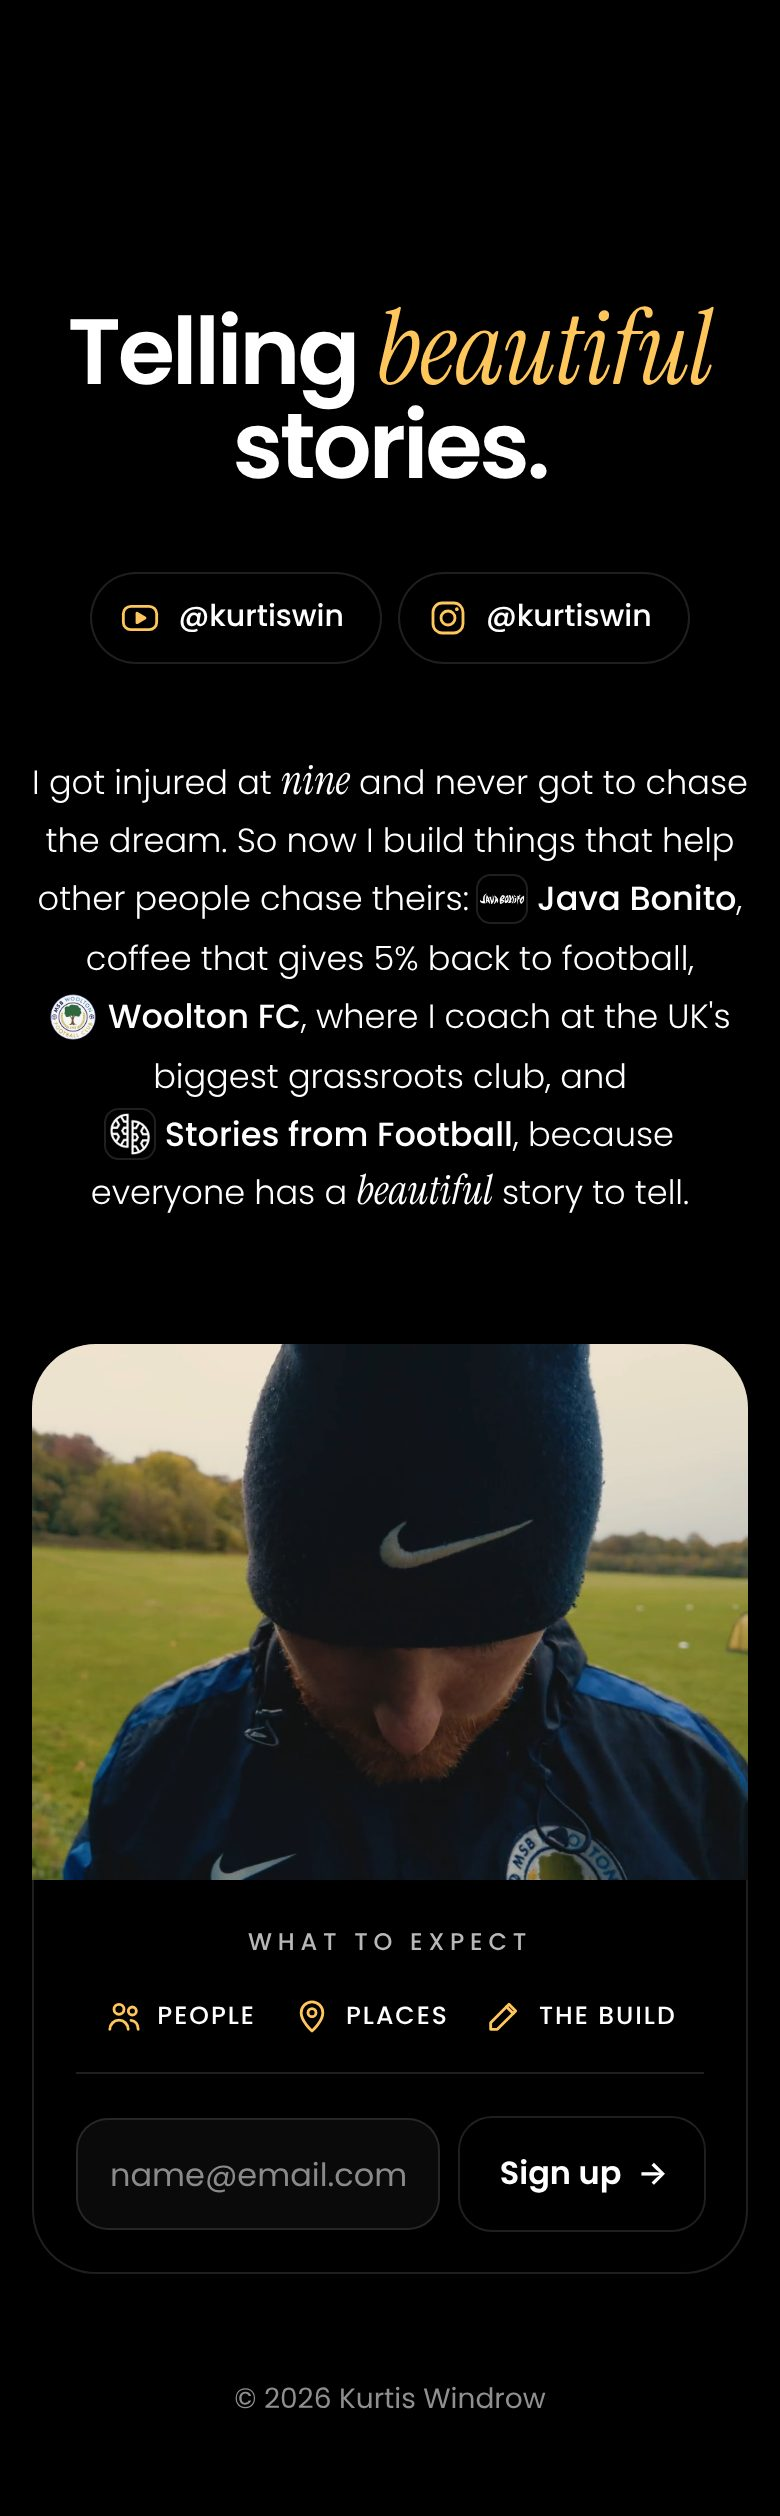
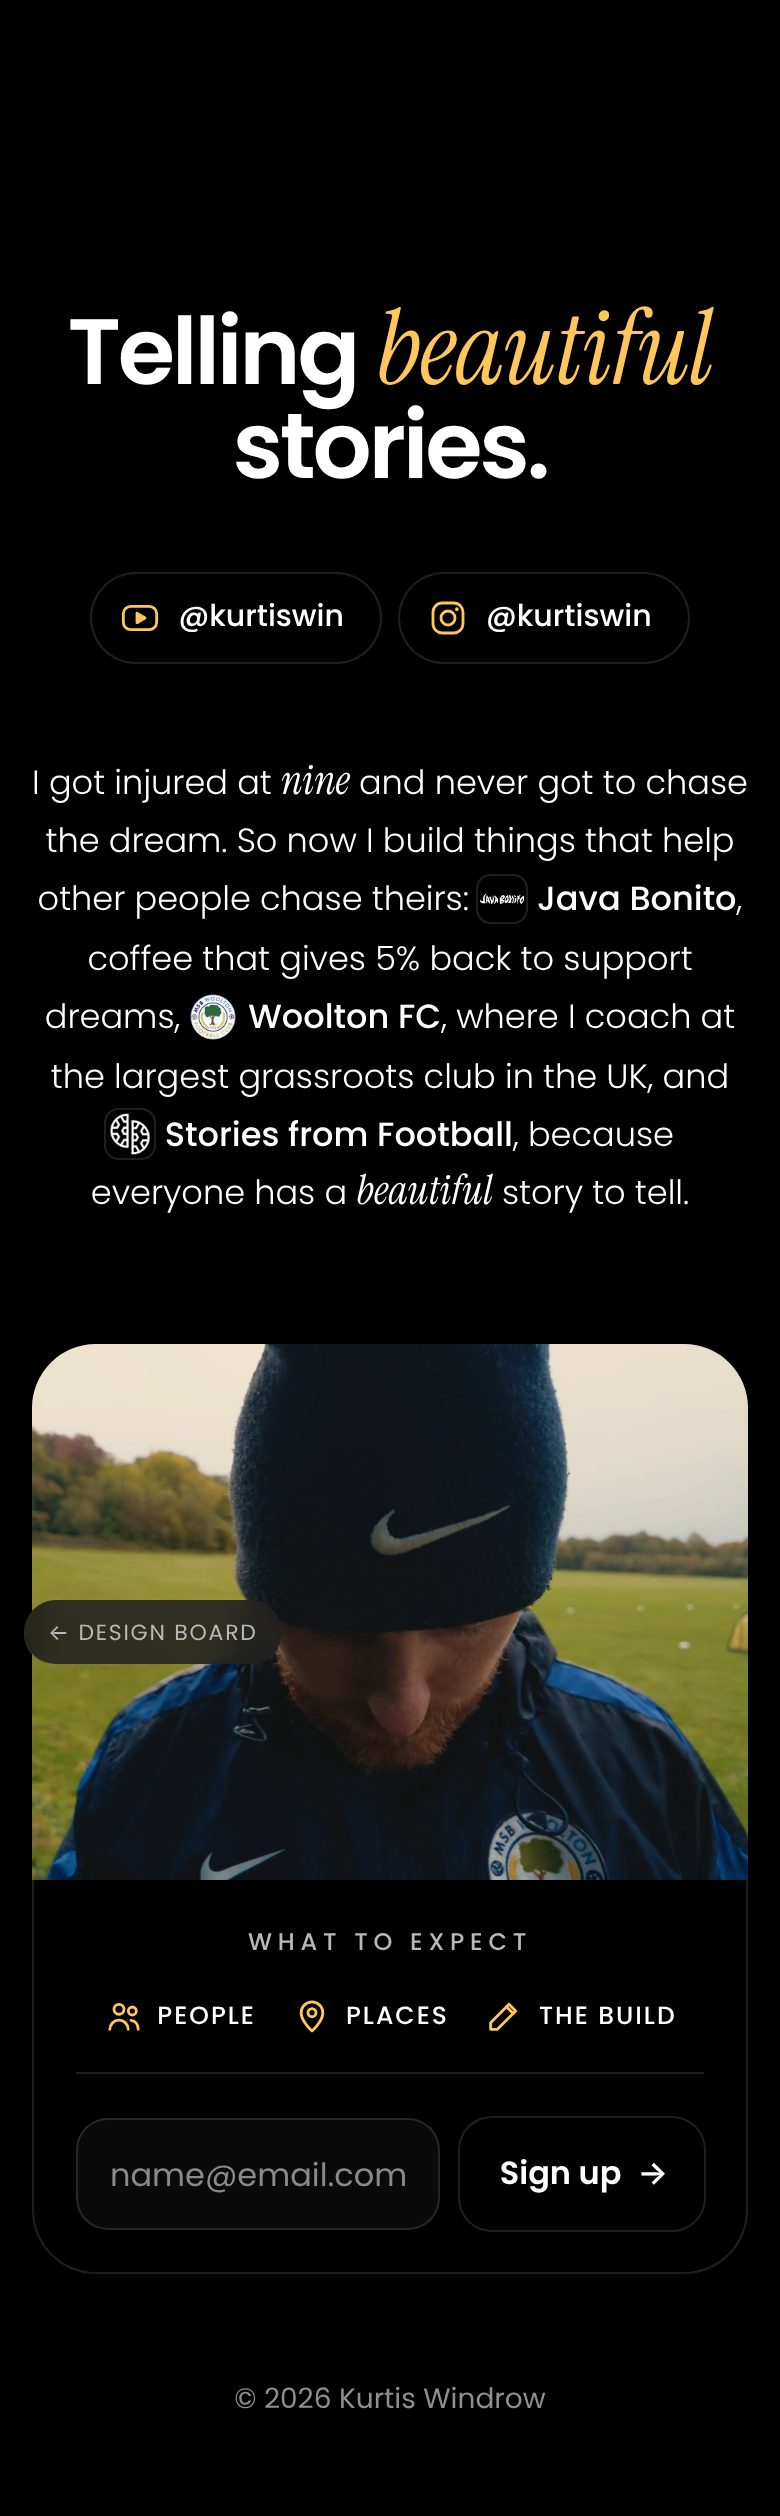
Update story copy for Java Bonito and Woolton FC
Claude-Session: https://claude.ai/code/session_01YWeD3rSu7rVPaxhd9cXvfE

Changed region(s): [[0.4615, 0.527, 0.9846, 0.775], [0.0615, 0.372, 0.9538, 0.434], [0.0308, 0.527, 0.4, 0.744]]

diff --git a/skills/kurtis-design-skill-personal-brand/assets/reference/site.html b/skills/kurtis-design-skill-personal-brand/assets/reference/site.html
@@ -98,7 +98,7 @@ footer a{text-decoration:none}
       <svg class="ico" viewBox="0 0 24 24" fill="none" stroke="currentColor" stroke-width="1.7" aria-hidden="true"><rect x="3" y="3" width="18" height="18" rx="5.5"/><circle cx="12" cy="12" r="4.2"/><circle cx="17.3" cy="6.7" r="1.1" fill="currentColor" stroke="none"/></svg>@kurtiswin</a>
   </nav>
 
-  <p class="story rise d3">I got injured at <i>nine</i> and never got to chase the dream. So now I build things that help other people chase theirs: <a class="chip c-jb" href="https://www.javabonito.co.uk" target="_blank" rel="noopener"><img src="../icons/icon-jb.png" alt="">Java&nbsp;Bonito</a>, coffee that gives 5% back to football, <a class="chip c-wfc" href="https://www.wooltonfc.co.uk" target="_blank" rel="noopener"><img class="round" src="../icons/icon-wfc.png" alt="">Woolton&nbsp;FC</a>, where I coach at the UK's biggest grassroots club, and <a class="chip c-sff" href="https://www.storiesfromfootball.co.uk" target="_blank" rel="noopener"><img src="../icons/icon-sff.png" alt="">Stories&nbsp;from&nbsp;Football</a>, because everyone has a <i>beautiful</i> story to tell.</p>
+  <p class="story rise d3">I got injured at <i>nine</i> and never got to chase the dream. So now I build things that help other people chase theirs: <a class="chip c-jb" href="https://www.javabonito.co.uk" target="_blank" rel="noopener"><img src="../icons/icon-jb.png" alt="">Java&nbsp;Bonito</a>, coffee that gives 5% back to support dreams, <a class="chip c-wfc" href="https://www.wooltonfc.co.uk" target="_blank" rel="noopener"><img class="round" src="../icons/icon-wfc.png" alt="">Woolton&nbsp;FC</a>, where I coach at the largest grassroots club in the UK, and <a class="chip c-sff" href="https://www.storiesfromfootball.co.uk" target="_blank" rel="noopener"><img src="../icons/icon-sff.png" alt="">Stories&nbsp;from&nbsp;Football</a>, because everyone has a <i>beautiful</i> story to tell.</p>
 
   <section class="card rise d4" id="join" aria-labelledby="join-h">
     <div class="film">

diff --git a/kurtis-site/design-board/site.html b/kurtis-site/design-board/site.html
@@ -98,7 +98,7 @@ footer a{text-decoration:none}
       <svg class="ico" viewBox="0 0 24 24" fill="none" stroke="currentColor" stroke-width="1.7" aria-hidden="true"><rect x="3" y="3" width="18" height="18" rx="5.5"/><circle cx="12" cy="12" r="4.2"/><circle cx="17.3" cy="6.7" r="1.1" fill="currentColor" stroke="none"/></svg>@kurtiswin</a>
   </nav>
 
-  <p class="story rise d3">I got injured at <i>nine</i> and never got to chase the dream. So now I build things that help other people chase theirs: <a class="chip c-jb" href="https://www.javabonito.co.uk" target="_blank" rel="noopener"><img src="assets/icon-jb.png" alt="">Java&nbsp;Bonito</a>, coffee that gives 5% back to football, <a class="chip c-wfc" href="https://www.wooltonfc.co.uk" target="_blank" rel="noopener"><img class="round" src="assets/icon-wfc.png" alt="">Woolton&nbsp;FC</a>, where I coach at the UK's biggest grassroots club, and <a class="chip c-sff" href="https://www.storiesfromfootball.co.uk" target="_blank" rel="noopener"><img src="assets/icon-sff.png" alt="">Stories&nbsp;from&nbsp;Football</a>, because everyone has a <i>beautiful</i> story to tell.</p>
+  <p class="story rise d3">I got injured at <i>nine</i> and never got to chase the dream. So now I build things that help other people chase theirs: <a class="chip c-jb" href="https://www.javabonito.co.uk" target="_blank" rel="noopener"><img src="assets/icon-jb.png" alt="">Java&nbsp;Bonito</a>, coffee that gives 5% back to support dreams, <a class="chip c-wfc" href="https://www.wooltonfc.co.uk" target="_blank" rel="noopener"><img class="round" src="assets/icon-wfc.png" alt="">Woolton&nbsp;FC</a>, where I coach at the largest grassroots club in the UK, and <a class="chip c-sff" href="https://www.storiesfromfootball.co.uk" target="_blank" rel="noopener"><img src="assets/icon-sff.png" alt="">Stories&nbsp;from&nbsp;Football</a>, because everyone has a <i>beautiful</i> story to tell.</p>
 
   <section class="card rise d4" id="join" aria-labelledby="join-h">
     <div class="film">

diff --git a/skills/kurtis-design-skill-personal-brand/references/brand.md b/skills/kurtis-design-skill-personal-brand/references/brand.md
@@ -141,7 +141,7 @@ Project logos (`assets/icons/`):
 
 Approved copy:
 - Headline: "Telling *beautiful* stories."
-- Story: "I got injured at *nine* and never got to chase the dream. So now I build things that help other people chase theirs: [Java Bonito], coffee that gives 5% back to football, [Woolton FC], where I coach at the UK's biggest grassroots club, and [Stories from Football], because everyone has a *beautiful* story to tell."
+- Story: "I got injured at *nine* and never got to chase the dream. So now I build things that help other people chase theirs: [Java Bonito], coffee that gives 5% back to support dreams, [Woolton FC], where I coach at the largest grassroots club in the UK, and [Stories from Football], because everyone has a *beautiful* story to tell."
 - Older lines from his Carrd draft, fine to reuse: "To transform lives through football." "Connecting the world through conversation, because everyone has a beautiful story to tell." "Coffee for football – giving 5% back from every coffee sold to support dreams." "Join the Club."
 
 Tone: warm, first person, short sentences, football and community first. No hype words.

diff --git a/kurtis-site/BRIEF.md b/kurtis-site/BRIEF.md
@@ -47,3 +47,5 @@
 
 - 2026-11-06: Board turned into the KurtisWin brand board (concepts B and C removed). Site page renamed design-board/site.html.
 
+- 2026-11-06: Story copy: Java Bonito 'coffee that gives 5% back to support dreams'; Woolton FC 'where I coach at the largest grassroots club in the UK'.
+
